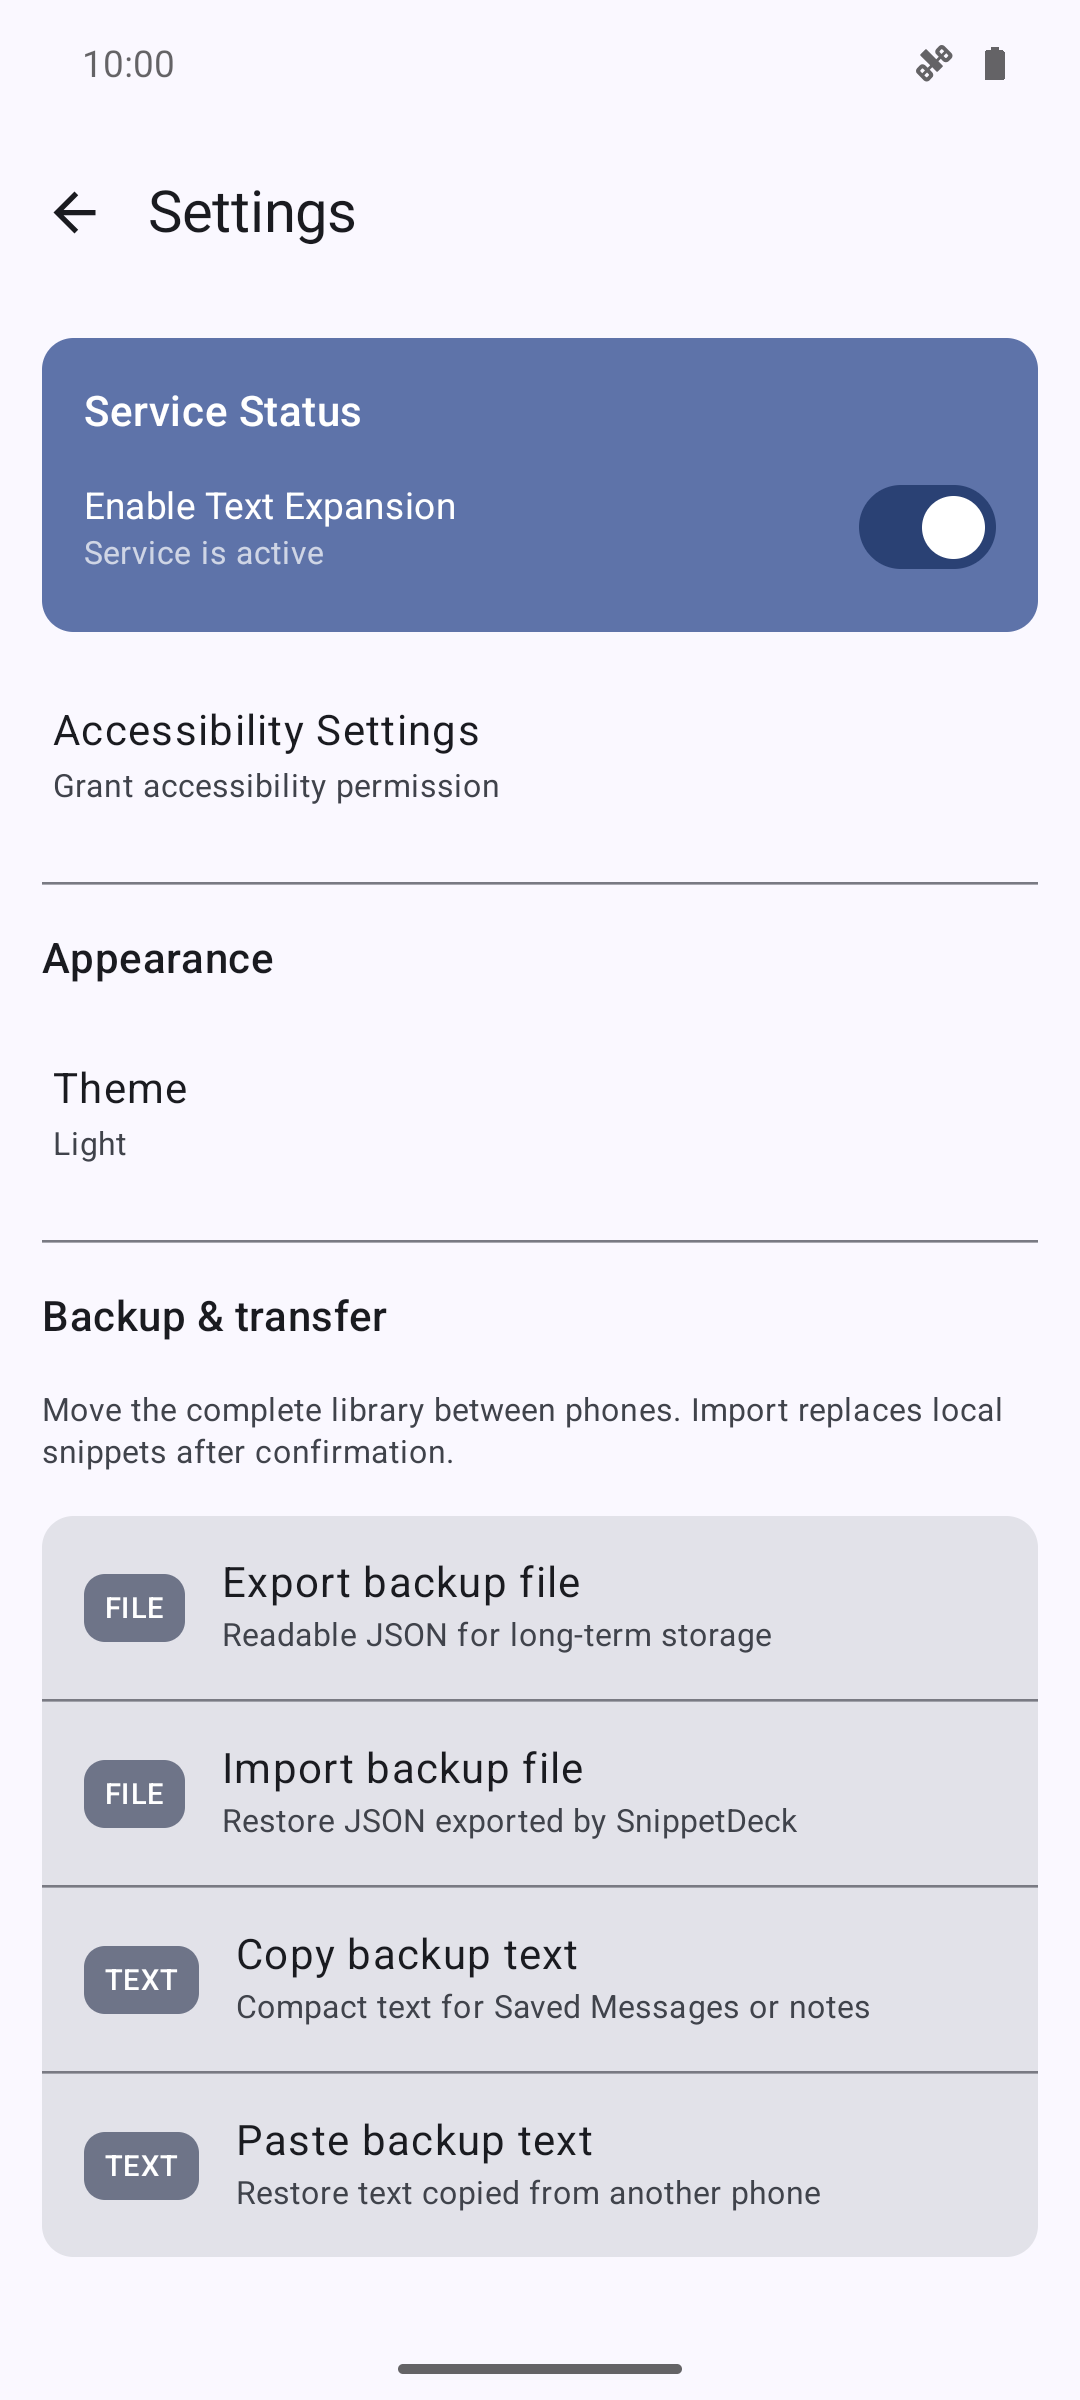
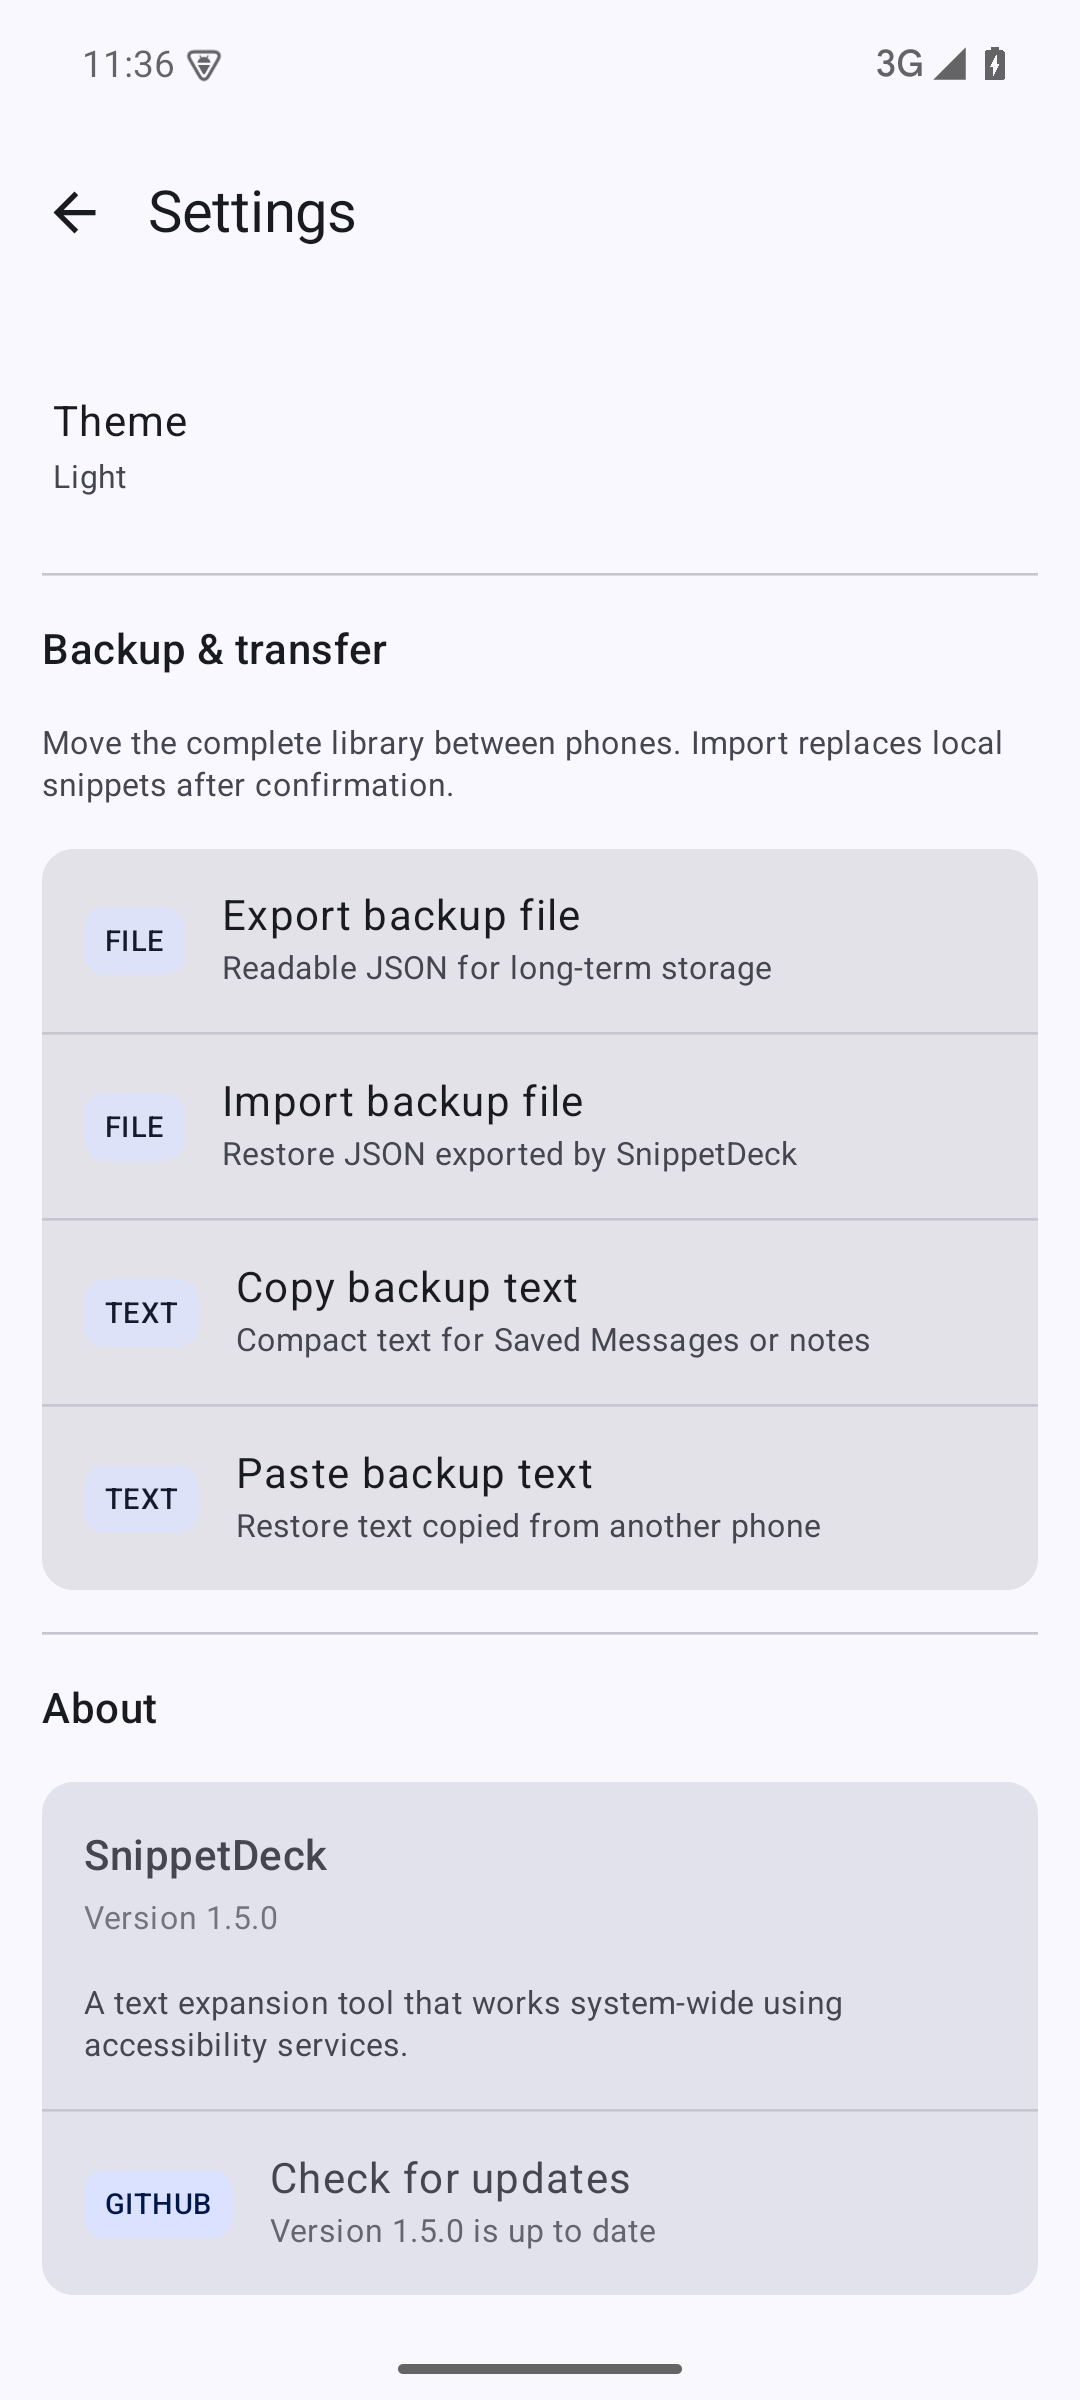
Refresh updater UI verification

diff --git a/app/src/androidTest/java/com/rrajath/expander/ExampleInstrumentedTest.kt b/app/src/androidTest/java/com/rrajath/expander/ExampleInstrumentedTest.kt
@@ -2,23 +2,15 @@ package com.rrajath.expander
 
 import androidx.test.platform.app.InstrumentationRegistry
 import androidx.test.ext.junit.runners.AndroidJUnit4
-
+import org.junit.Assert.assertEquals
 import org.junit.Test
 import org.junit.runner.RunWith
 
-import org.junit.Assert.*
-
-/**
- * Instrumented test, which will execute on an Android device.
- *
- * See [testing documentation](http://d.android.com/tools/testing).
- */
 @RunWith(AndroidJUnit4::class)
 class ExampleInstrumentedTest {
     @Test
-    fun useAppContext() {
-        // Context of the app under test.
+    fun debugVariantUsesIsolatedApplicationId() {
         val appContext = InstrumentationRegistry.getInstrumentation().targetContext
-        assertEquals("com.rrajath.expander", appContext.packageName)
+        assertEquals("com.rrajath.expander.debug", appContext.packageName)
     }
 }
